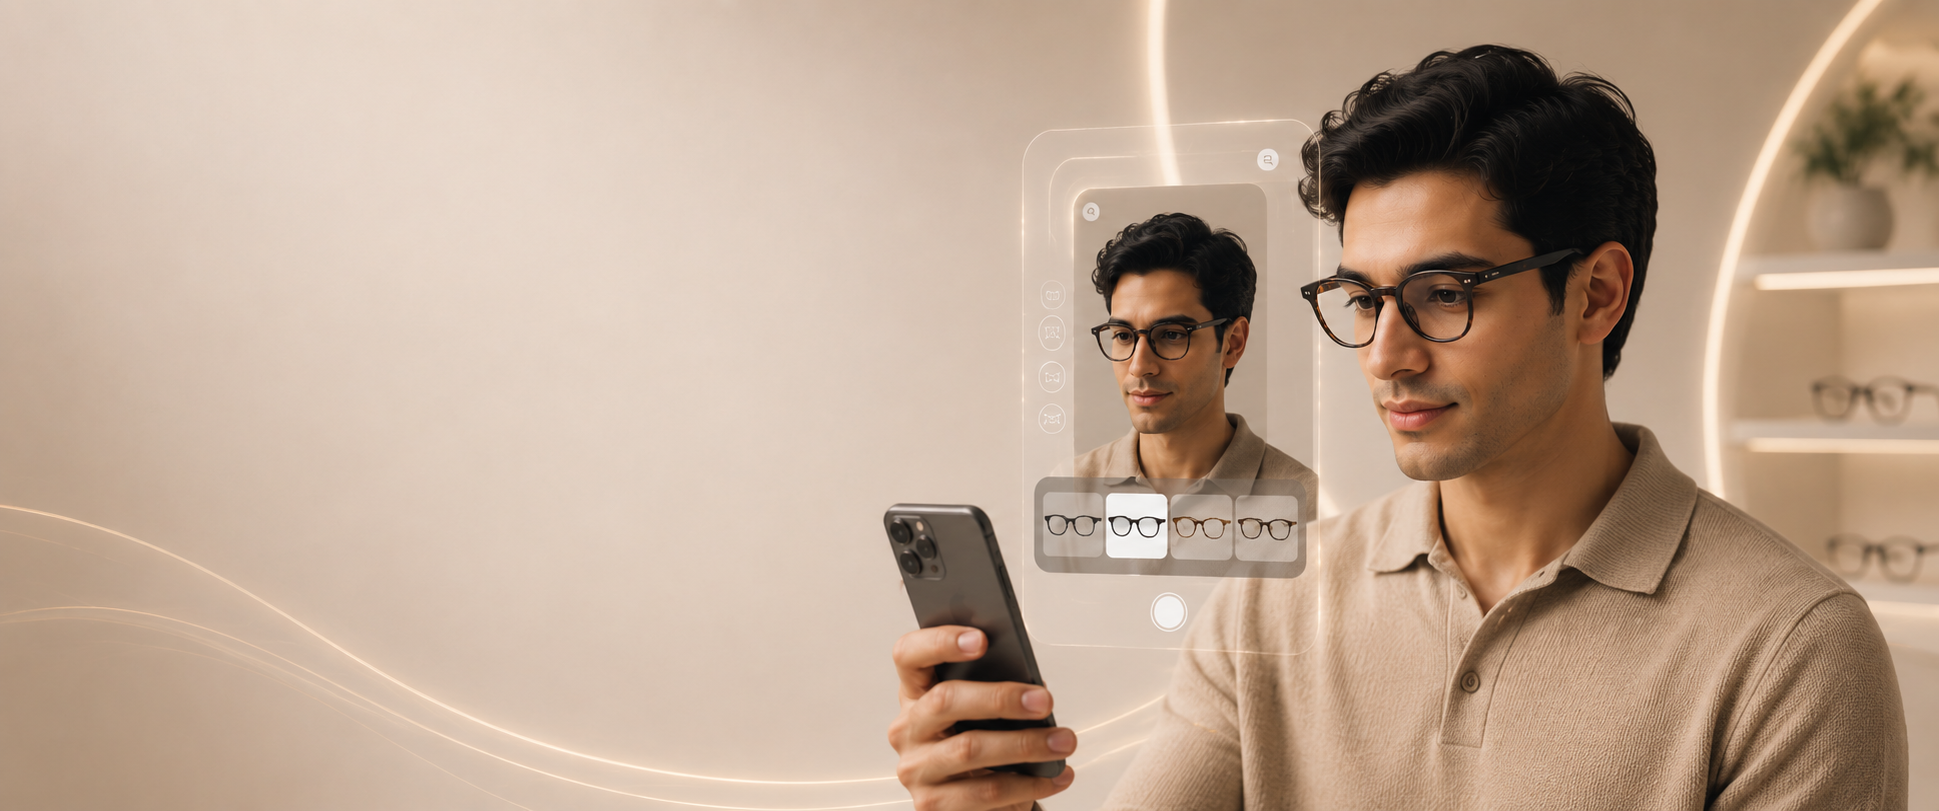
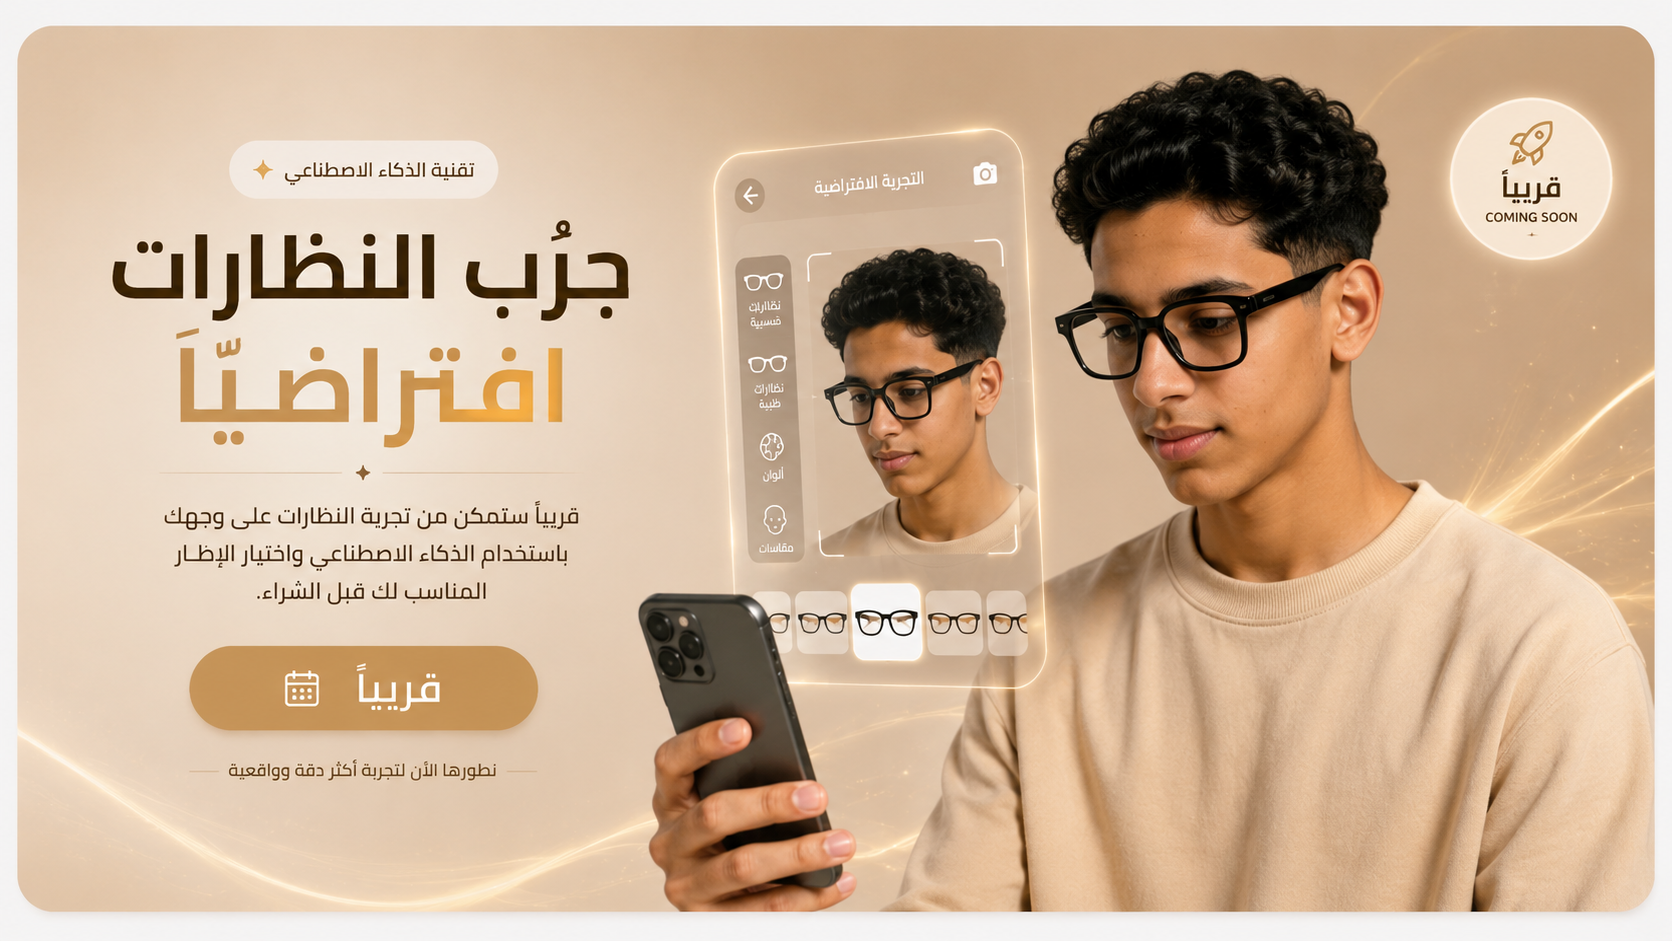
Update admin dashboard route and UI improvements

diff --git a/frontend/src/pages/Admin/CouponForm.jsx b/frontend/src/pages/Admin/CouponForm.jsx
@@ -140,7 +140,7 @@ export default function CouponForm() {
         <div>
           <h1 className="text-2xl font-bold text-primary">{isEditMode ? "تعديل الكوبون" : "إضافة كوبون جديد"}</h1>
           <div className="flex items-center gap-1.5 text-xs text-primary/40 mt-1.5">
-            <Link to="/admin" className="hover:text-secondary">لوحة التحكم</Link>
+            <Link to="/dashboard" className="hover:text-secondary">لوحة التحكم</Link>
             <ChevronLeft size={12} />
             <Link to="/admin/coupons" className="hover:text-secondary">الكوبونات</Link>
             <ChevronLeft size={12} />

diff --git a/frontend/src/pages/Admin/AITryOn.jsx b/frontend/src/pages/Admin/AITryOn.jsx
@@ -34,7 +34,7 @@ export default function AiTryOn() {
         <div>
           <h1 className="text-2xl font-bold text-primary">التجربة الافتراضية بالذكاء الاصطناعي</h1>
           <div className="flex items-center gap-1.5 text-xs text-primary/40 mt-1.5">
-            <Link to="/admin" className="hover:text-secondary">لوحة التحكم</Link>
+            <Link to="/dashboard" className="hover:text-secondary">لوحة التحكم</Link>
             <ChevronLeft size={12} />
             <span className="text-primary/60">التجربة الافتراضية</span>
           </div>

diff --git a/frontend/src/pages/Admin/ProductForm.jsx b/frontend/src/pages/Admin/ProductForm.jsx
@@ -111,7 +111,7 @@ export default function ProductForm() {
             {isEditMode ? "تعديل المنتج" : "إضافة منتج جديد"}
           </h1>
           <div className="flex items-center gap-1.5 text-xs text-primary/40 mt-1.5">
-            <Link to="/admin" className="hover:text-secondary">لوحة التحكم</Link>
+            <Link to="/dashboard" className="hover:text-secondary">لوحة التحكم</Link>
             <ChevronLeft size={12} />
             <Link to="/admin/products" className="hover:text-secondary">المنتجات</Link>
             <ChevronLeft size={12} />

diff --git a/frontend/src/pages/Admin/AddAdmin.jsx b/frontend/src/pages/Admin/AddAdmin.jsx
@@ -60,7 +60,7 @@ export default function AddAdmin() {
       <div>
         <h1 className="text-2xl font-bold text-primary">إضافة مشرف جديد</h1>
         <div className="flex items-center gap-1.5 text-xs text-primary/40 mt-1.5">
-          <Link to="/admin" className="hover:text-secondary">لوحة التحكم</Link>
+          <Link to="/dashboard" className="hover:text-secondary">لوحة التحكم</Link>
           <ChevronLeft size={12} />
           <Link to="/admin/admins" className="hover:text-secondary">المشرفون</Link>
           <ChevronLeft size={12} />

diff --git a/frontend/src/pages/Admin/Customers.jsx b/frontend/src/pages/Admin/Customers.jsx
@@ -109,7 +109,7 @@ export default function Customers() {
         <div>
           <h1 className="text-2xl font-bold text-primary">العملاء والمستخدمين</h1>
           <div className="flex items-center gap-1.5 text-xs text-primary/40 mt-1.5">
-            <Link to="/admin" className="hover:text-secondary">لوحة التحكم</Link>
+            <Link to="/dashboard" className="hover:text-secondary">لوحة التحكم</Link>
             <ChevronLeft size={12} />
             <span className="text-primary/60">كل المستخدمين</span>
           </div>

diff --git a/frontend/src/pages/Admin/Admins.jsx b/frontend/src/pages/Admin/Admins.jsx
@@ -104,7 +104,7 @@ export default function Admins() {
         <div>
           <h1 className="text-2xl font-bold text-primary">إدارة المشرفين</h1>
           <div className="flex items-center gap-1.5 text-xs text-primary/40 mt-1.5">
-            <Link to="/admin" className="hover:text-secondary">لوحة التحكم</Link>
+            <Link to="/dashboard" className="hover:text-secondary">لوحة التحكم</Link>
             <ChevronLeft size={12} />
             <span className="text-primary/60">المشرفون</span>
           </div>

diff --git a/frontend/src/pages/Admin/Analytics.jsx b/frontend/src/pages/Admin/Analytics.jsx
@@ -34,7 +34,7 @@ export default function Analytics() {
         <div>
           <h1 className="text-2xl font-bold text-primary">التحليلات</h1>
           <div className="flex items-center gap-1.5 text-xs text-primary/40 mt-1.5">
-            <Link to="/admin" className="hover:text-secondary">لوحة التحكم</Link>
+            <Link to="/dashboard" className="hover:text-secondary">لوحة التحكم</Link>
             <ChevronLeft size={12} />
             <span className="text-primary/60">التحليلات</span>
           </div>

diff --git a/frontend/src/pages/Admin/Chatbot.jsx b/frontend/src/pages/Admin/Chatbot.jsx
@@ -31,7 +31,7 @@ export default function Chatbot() {
         <div>
           <h1 className="text-2xl font-bold text-primary">الشات بوت</h1>
           <div className="flex items-center gap-1.5 text-xs text-primary/40 mt-1.5">
-            <Link to="/admin" className="hover:text-secondary">لوحة التحكم</Link>
+            <Link to="/dashboard" className="hover:text-secondary">لوحة التحكم</Link>
             <ChevronLeft size={12} />
             <span className="text-primary/60">الشات بوت</span>
           </div>

diff --git a/frontend/src/pages/Admin/Reports.jsx b/frontend/src/pages/Admin/Reports.jsx
@@ -35,7 +35,7 @@ export default function Reports() {
         <div>
           <h1 className="text-2xl font-bold text-primary">التقارير</h1>
           <div className="flex items-center gap-1.5 text-xs text-primary/40 mt-1.5">
-            <Link to="/admin" className="hover:text-secondary">لوحة التحكم</Link>
+            <Link to="/dashboard" className="hover:text-secondary">لوحة التحكم</Link>
             <ChevronLeft size={12} />
             <span className="text-primary/60">التقارير</span>
           </div>

diff --git a/frontend/src/pages/Admin/Coupons.jsx b/frontend/src/pages/Admin/Coupons.jsx
@@ -128,7 +128,7 @@ export default function Coupons() {
         <div>
           <h1 className="text-2xl font-bold text-primary">الكوبونات</h1>
           <div className="flex items-center gap-1.5 text-xs text-primary/40 mt-1.5">
-            <Link to="/admin" className="hover:text-secondary">لوحة التحكم</Link>
+            <Link to="/dashboard" className="hover:text-secondary">لوحة التحكم</Link>
             <ChevronLeft size={12} />
             <span>الكوبونات</span>
             <ChevronLeft size={12} />

diff --git a/frontend/src/pages/Admin/Reviews.jsx b/frontend/src/pages/Admin/Reviews.jsx
@@ -171,7 +171,7 @@ export default function Reviews() {
         <div>
           <h1 className="text-2xl font-bold text-primary">التقييمات</h1>
           <div className="flex items-center gap-1.5 text-xs text-primary/40 mt-1.5">
-            <Link to="/admin" className="hover:text-secondary">لوحة التحكم</Link>
+            <Link to="/dashboard" className="hover:text-secondary">لوحة التحكم</Link>
             <ChevronLeft size={12} />
             <span>التقييمات</span>
             <ChevronLeft size={12} />

diff --git a/frontend/src/pages/Admin/Payments.jsx b/frontend/src/pages/Admin/Payments.jsx
@@ -30,7 +30,7 @@ export default function Payments() {
         <div>
           <h1 className="text-2xl font-bold text-primary">المدفوعات</h1>
           <div className="flex items-center gap-1.5 text-xs text-primary/40 mt-1.5">
-            <Link to="/admin" className="hover:text-secondary">لوحة التحكم</Link>
+            <Link to="/dashboard" className="hover:text-secondary">لوحة التحكم</Link>
             <ChevronLeft size={12} />
             <span>المدفوعات</span>
             <ChevronLeft size={12} />
